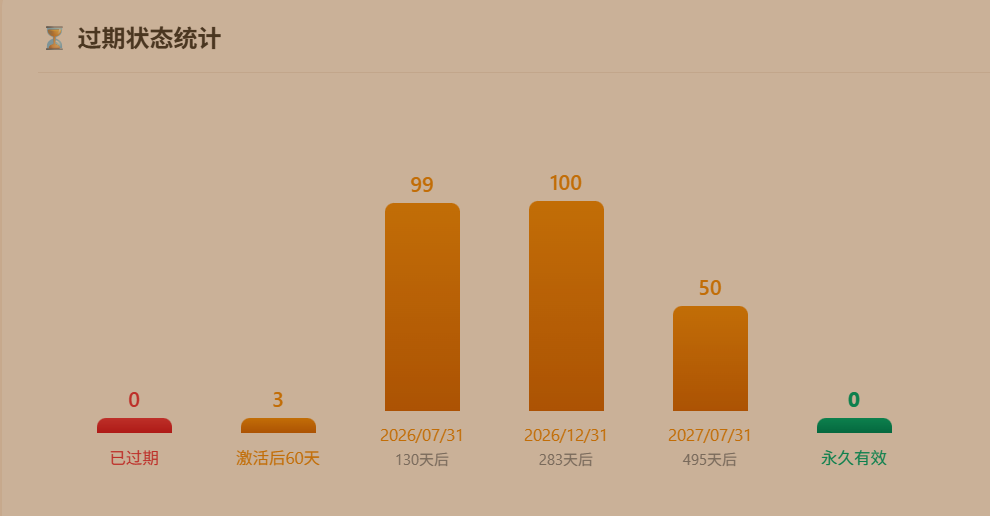
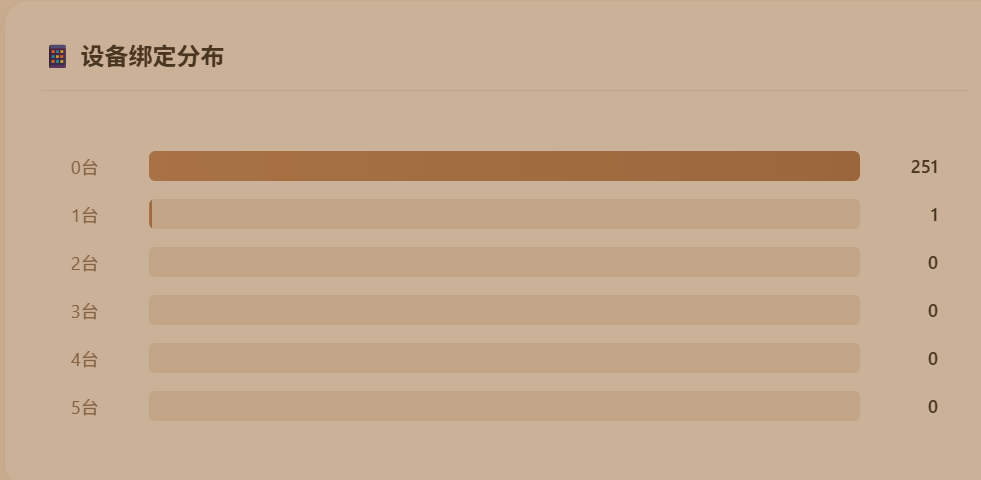
feat: 将设备绑定分布从0-5台改为"未绑定"和"已绑定"两种状态

diff --git a/src/static/admin.html b/src/static/admin.html
@@ -1741,6 +1741,14 @@
             transition: width 0.3s ease;
         }
 
+        .device-bar-unbound {
+            background: linear-gradient(90deg, #A89070, #8B7355);
+        }
+
+        .device-bar-bound {
+            background: linear-gradient(90deg, #10B981, #059669);
+        }
+
         .device-count {
             width: 40px;
             font-size: 12px;
@@ -3401,34 +3409,14 @@
                     <h3 class="section-title">📱 设备绑定分布</h3>
                     <div class="device-bars" id="deviceBars">
                         <div class="device-bar-item">
-                            <span class="device-label">0台</span>
-                            <div class="device-bar"><div class="device-bar-fill" id="device0" style="width: 0%;"></div></div>
-                            <span class="device-count" id="deviceCount0">0</span>
+                            <span class="device-label">未绑定</span>
+                            <div class="device-bar"><div class="device-bar-fill device-bar-unbound" id="deviceUnbound" style="width: 0%;"></div></div>
+                            <span class="device-count" id="deviceCountUnbound">0</span>
                         </div>
                         <div class="device-bar-item">
-                            <span class="device-label">1台</span>
-                            <div class="device-bar"><div class="device-bar-fill" id="device1" style="width: 0%;"></div></div>
-                            <span class="device-count" id="deviceCount1">0</span>
-                        </div>
-                        <div class="device-bar-item">
-                            <span class="device-label">2台</span>
-                            <div class="device-bar"><div class="device-bar-fill" id="device2" style="width: 0%;"></div></div>
-                            <span class="device-count" id="deviceCount2">0</span>
-                        </div>
-                        <div class="device-bar-item">
-                            <span class="device-label">3台</span>
-                            <div class="device-bar"><div class="device-bar-fill" id="device3" style="width: 0%;"></div></div>
-                            <span class="device-count" id="deviceCount3">0</span>
-                        </div>
-                        <div class="device-bar-item">
-                            <span class="device-label">4台</span>
-                            <div class="device-bar"><div class="device-bar-fill" id="device4" style="width: 0%;"></div></div>
-                            <span class="device-count" id="deviceCount4">0</span>
-                        </div>
-                        <div class="device-bar-item">
-                            <span class="device-label">5台</span>
-                            <div class="device-bar"><div class="device-bar-fill" id="device5" style="width: 0%;"></div></div>
-                            <span class="device-count" id="deviceCount5">0</span>
+                            <span class="device-label">已绑定</span>
+                            <div class="device-bar"><div class="device-bar-fill device-bar-bound" id="deviceBound" style="width: 0%;"></div></div>
+                            <span class="device-count" id="deviceCountBound">0</span>
                         </div>
                     </div>
                 </div>
@@ -5272,16 +5260,27 @@
             pieChart.style.setProperty('--sold', `${unsoldPct + soldPct}%`);
             pieChart.style.setProperty('--refunded', `${unsoldPct + soldPct + refundedPct}%`);
             
-            // 设备绑定分布
-            const devices = data.device_distribution;
-            const maxDevices = Math.max(...Object.values(devices), 1);
+            // 设备绑定分布（未绑定 vs 已绑定）
+            const devices = data.device_distribution || {};
             
-            for (let i = 0; i <= 5; i++) {
-                const count = devices[i] || 0;
-                const width = (count / maxDevices * 100);
-                document.getElementById(`device${i}`).style.width = `${width}%`;
-                document.getElementById(`deviceCount${i}`).textContent = count;
+            // 计算未绑定（0台）和已绑定（>=1台）
+            let unboundCount = devices['0'] || 0;
+            let boundCount = 0;
+            
+            // 累加所有已绑定的设备数（1台及以上）
+            for (const [key, value] of Object.entries(devices)) {
+                if (parseInt(key) >= 1) {
+                    boundCount += value;
+                }
             }
+            
+            const maxDevices = Math.max(unboundCount, boundCount, 1);
+            
+            document.getElementById('deviceUnbound').style.width = `${(unboundCount / maxDevices * 100)}%`;
+            document.getElementById('deviceCountUnbound').textContent = unboundCount;
+            
+            document.getElementById('deviceBound').style.width = `${(boundCount / maxDevices * 100)}%`;
+            document.getElementById('deviceCountBound').textContent = boundCount;
         }
         
         // 导出报表
